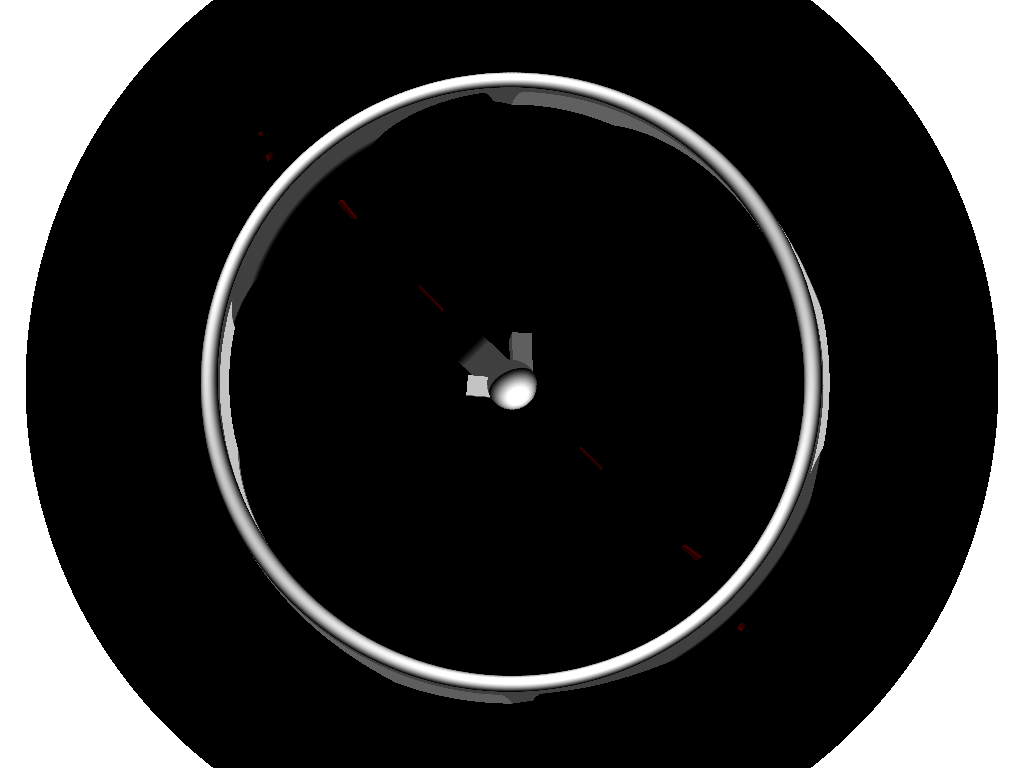
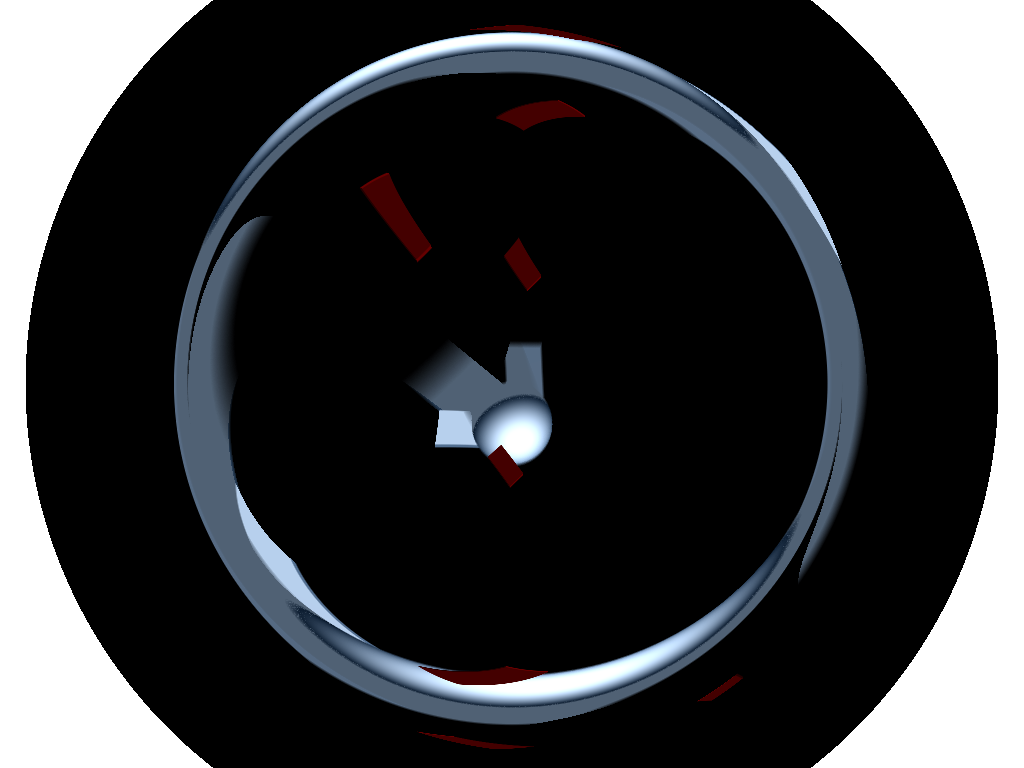
added card rotation,translation randomly per frame, added alice rotation

diff --git a/renderFrames.py b/renderFrames.py
@@ -1,24 +1,65 @@
 import json
 import subprocess
-
-# path = '/Users/mohammadhijaz/Desktop/cs-1230/final-project/scenefiles/intersect/required/falling_sphere.json'
-path = "/Users/davideskilson/other/browncs/CSCI-1230/final-project/AetherRay/scenefiles/intersect/required/falling_sphere.json"
+import math
+import random
+path = '/Users/mohammadhijaz/Desktop/cs-1230/final-project/scenefiles/intersect/required/falling_sphere.json'
+# path = "/Users/davideskilson/other/browncs/CSCI-1230/final-project/AetherRay/scenefiles/intersect/required/falling_sphere.json"
 with open(path, "r") as f:
     data = json.load(f)
 
 
 # print(data['groups'][1]['groups'][0]['translate'])
 # print(data['groups'][1]['groups'][0][''])
+print(data["groups"][2]["groups"][0]["groups"])
+angle = 0
 for frame in range(0, 11):
     print("creating new frame JSON frame i: ", frame)
+    data["groups"][1]["groups"][0]["translate"][1] -= 0.8
+    data["groups"][1]["groups"][0]["rotate"][3] += math.sin(frame * 0.1) * 10 # might change later, rotate Alice.
+    focus = data["cameraData"]["focus"]
+    radius = math.sqrt((data["cameraData"]["position"][0] - focus[0])**2 + 
+                       (data["cameraData"]["position"][2] - focus[2])**2)
+    angle += math.radians(10)
+    data["cameraData"]["position"][0] = focus[0] + radius * math.cos(angle)
+    data["cameraData"]["position"][2] = focus[2] + radius * math.sin(angle)
+
+    # translate the cards in random directions.
+
+    cards = data["groups"][2]["groups"][0]["groups"]
+    card_speeds = [random.uniform(-0.5, 0.5) for _ in range(3)]
+    card_speeds[1] = random.uniform(-0.8, -0.3) # should only fall? or should it go up sometimes?
+
+    for i in range(len(cards)):
+        for j in range(3):
+            data["groups"][2]["groups"][0]["groups"][i]['translate'][j] += card_speeds[j]
+        # data["groups"][2]["groups"][0]["groups"][i]["rotate"] = [0, 1, 0, (frame * 5) % 360] # maybe change later
+    
     with open("jsonFrames/frame" + str(frame) + ".json", "w") as f:
         json.dump(data, f)
-    data["groups"][1]["groups"][0]["translate"][1] -= 0.2
-    data["groups"][1]
 
+ini_str = """[IO]
+    scene = /Users/mohammadhijaz/Desktop/cs-1230/final-project/jsonFrames/
+    output = /Users/mohammadhijaz/Desktop/cs-1230/final-project/outputFrames/
+
+[Canvas] 
+    width = 1024
+    height = 768
+
+[Feature]
+    shadows = true
+    reflect = false
+    refract = false
+    texture = false
+    parallel = false
+    super-sample = false
+    num-samples = 1
+    post-process = false
+    acceleration = false
+    depthoffield = false
+"""
 # ini_str = """[IO]
-#     scene = /Users/mohammadhijaz/Desktop/cs-1230/final-project/jsonFrames/
-#     output = /Users/mohammadhijaz/Desktop/cs-1230/final-project/outputFrames/
+#     scene = /Users/davideskilson/other/browncs/CSCI-1230/final-project/AetherRay/jsonFrames/
+#     output = /Users/davideskilson/other/browncs/CSCI-1230/final-project/AetherRay/outputFrames/
 
 # [Canvas]
 #     width = 1024
@@ -36,40 +77,20 @@ for frame in range(0, 11):
 #     acceleration = false
 #     depthoffield = false
 # """
-ini_str = """[IO]
-    scene = /Users/davideskilson/other/browncs/CSCI-1230/final-project/AetherRay/jsonFrames/
-    output = /Users/davideskilson/other/browncs/CSCI-1230/final-project/AetherRay/outputFrames/
-
-[Canvas]
-    width = 1024
-    height = 768
-
-[Feature]
-    shadows = false
-    reflect = false
-    refract = false
-    texture = false
-    parallel = false
-    super-sample = false
-    num-samples = 1
-    post-process = false
-    acceleration = false
-    depthoffield = false
-"""
 lines = ini_str.splitlines()
 for frame in range(0, 11):
     print("creating new frame ini frame i: ", frame)
     cur_lines = lines
     cur_lines[1] = (
-        # " scene = /Users/mohammadhijaz/Desktop/cs-1230/final-project/jsonFrames/"
-        " scene = /Users/davideskilson/other/browncs/CSCI-1230/final-project/AetherRay/jsonFrames/"
+        " scene = /Users/mohammadhijaz/Desktop/cs-1230/final-project/jsonFrames/"
+        # " scene = /Users/davideskilson/other/browncs/CSCI-1230/final-project/AetherRay/jsonFrames/"
         + "frame"
         + str(frame)
         + ".json"
     )
     cur_lines[2] = (
-        # " output = /Users/mohammadhijaz/Desktop/cs-1230/final-project/outputFrames/"
-        " output = /Users/davideskilson/other/browncs/CSCI-1230/final-project/AetherRay/outputFrames/"
+        " output = /Users/mohammadhijaz/Desktop/cs-1230/final-project/outputFrames/"
+        # " output = /Users/davideskilson/other/browncs/CSCI-1230/final-project/AetherRay/outputFrames/"
         + "frame"
         + str(frame)
         + ".png"
@@ -82,14 +103,14 @@ for frame in range(0, 11):
     with open("iniFrames/frame" + str(frame) + ".ini", "w") as f:
         f.write(ini_to_str)
 
-# executable_path = "build/build-final-project-Qt_6_7_3_for_macOS-Release/projects_ray"
-executable_path = (
-    "build/build-project-aether-ray-Qt_6_7_3_for_macOS-Release/project_aether_ray"
-)
-# argument = "/Users/mohammadhijaz/Desktop/cs-1230/final-project/iniFrames/"
-argument = (
-    "/Users/davideskilson/other/browncs/CSCI-1230/final-project/AetherRay/iniFrames/"
-)
+executable_path = "build/build-final-project-Qt_6_7_3_for_macOS-Release/project_aether_ray"
+# executable_path = (
+#     "build/build-project-aether-ray-Qt_6_7_3_for_macOS-Release/project_aether_ray"
+# )
+argument = "/Users/mohammadhijaz/Desktop/cs-1230/final-project/iniFrames/"
+# argument = (
+#     "/Users/davideskilson/other/browncs/CSCI-1230/final-project/AetherRay/iniFrames/"
+# )
 for frame in range(0, 11):
     cur_argument = argument
     cur_argument += "frame" + str(frame) + ".ini"
